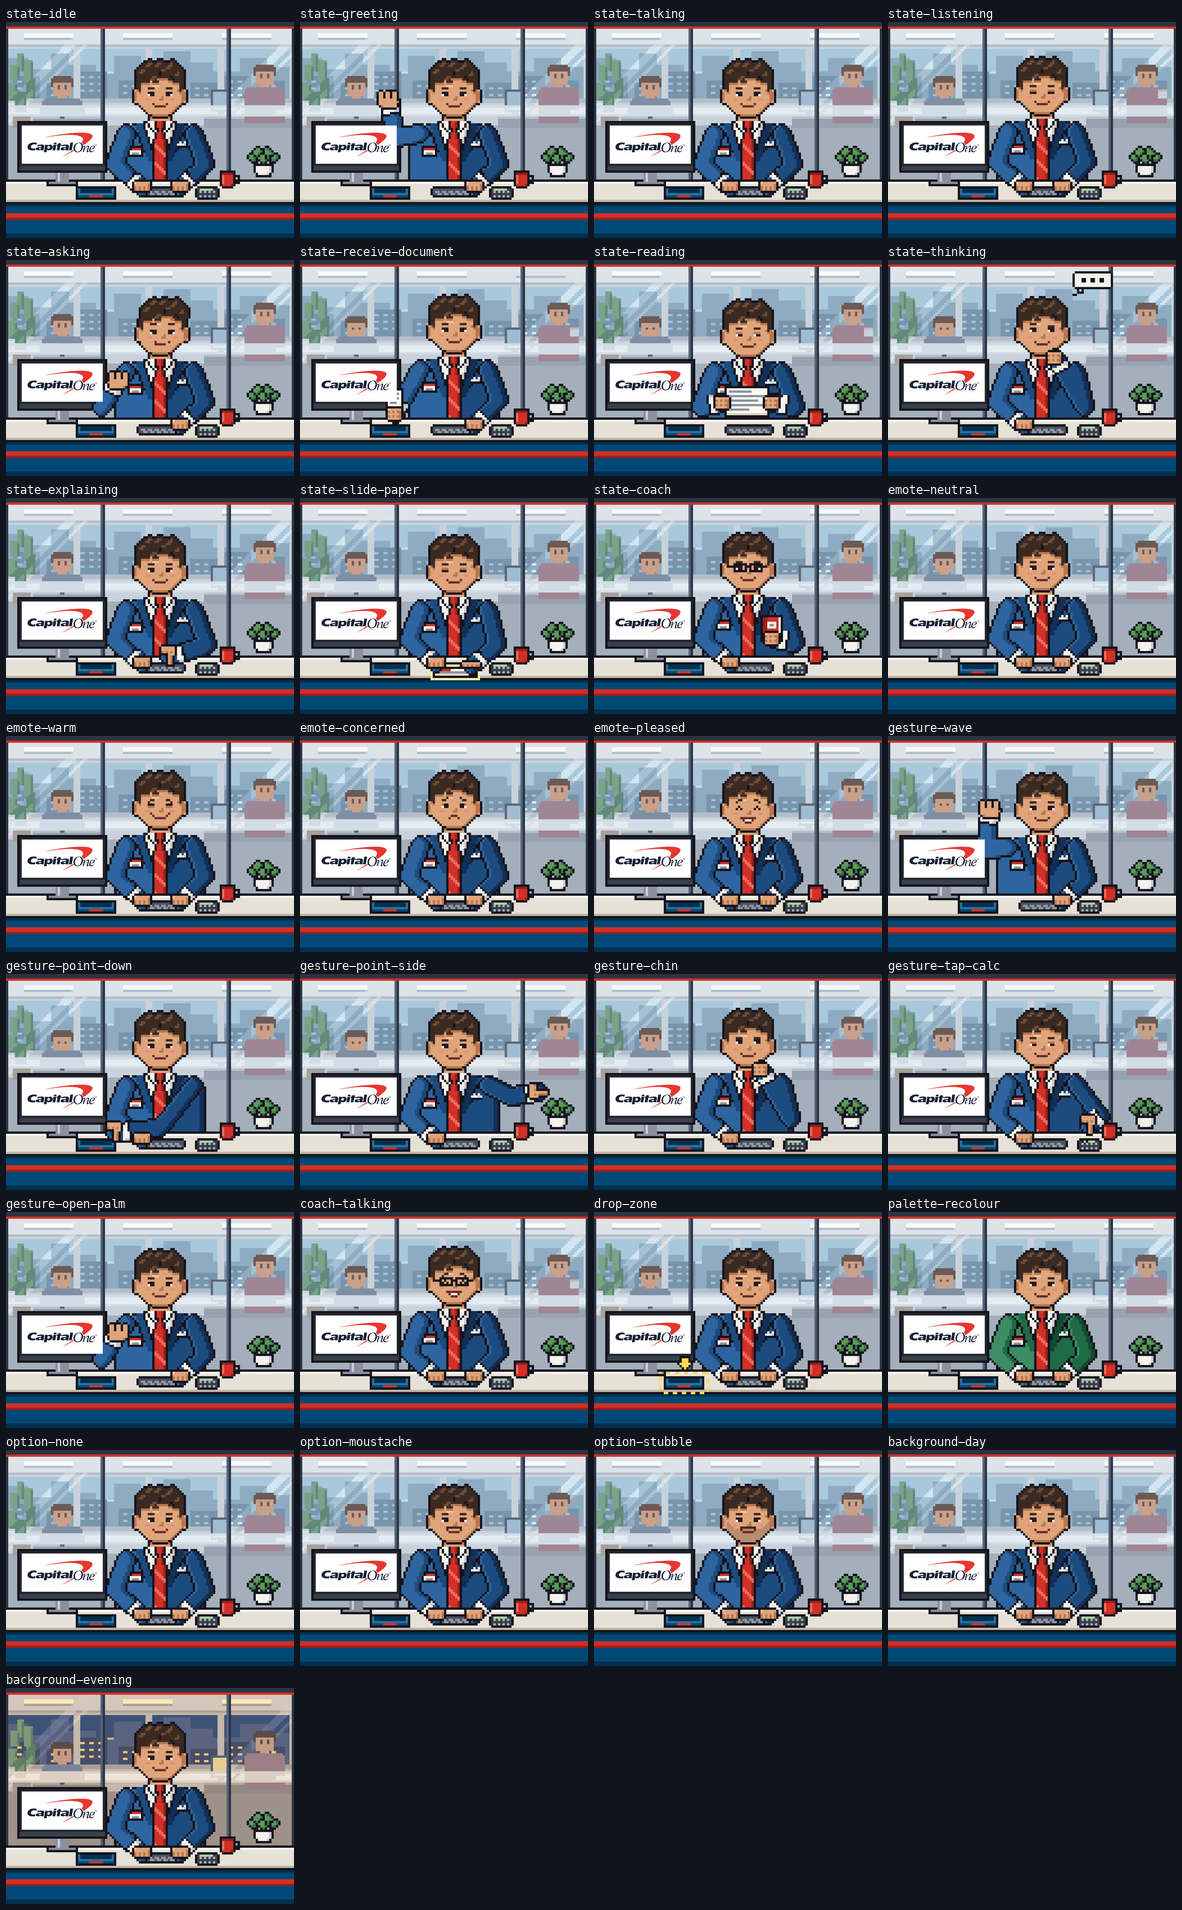
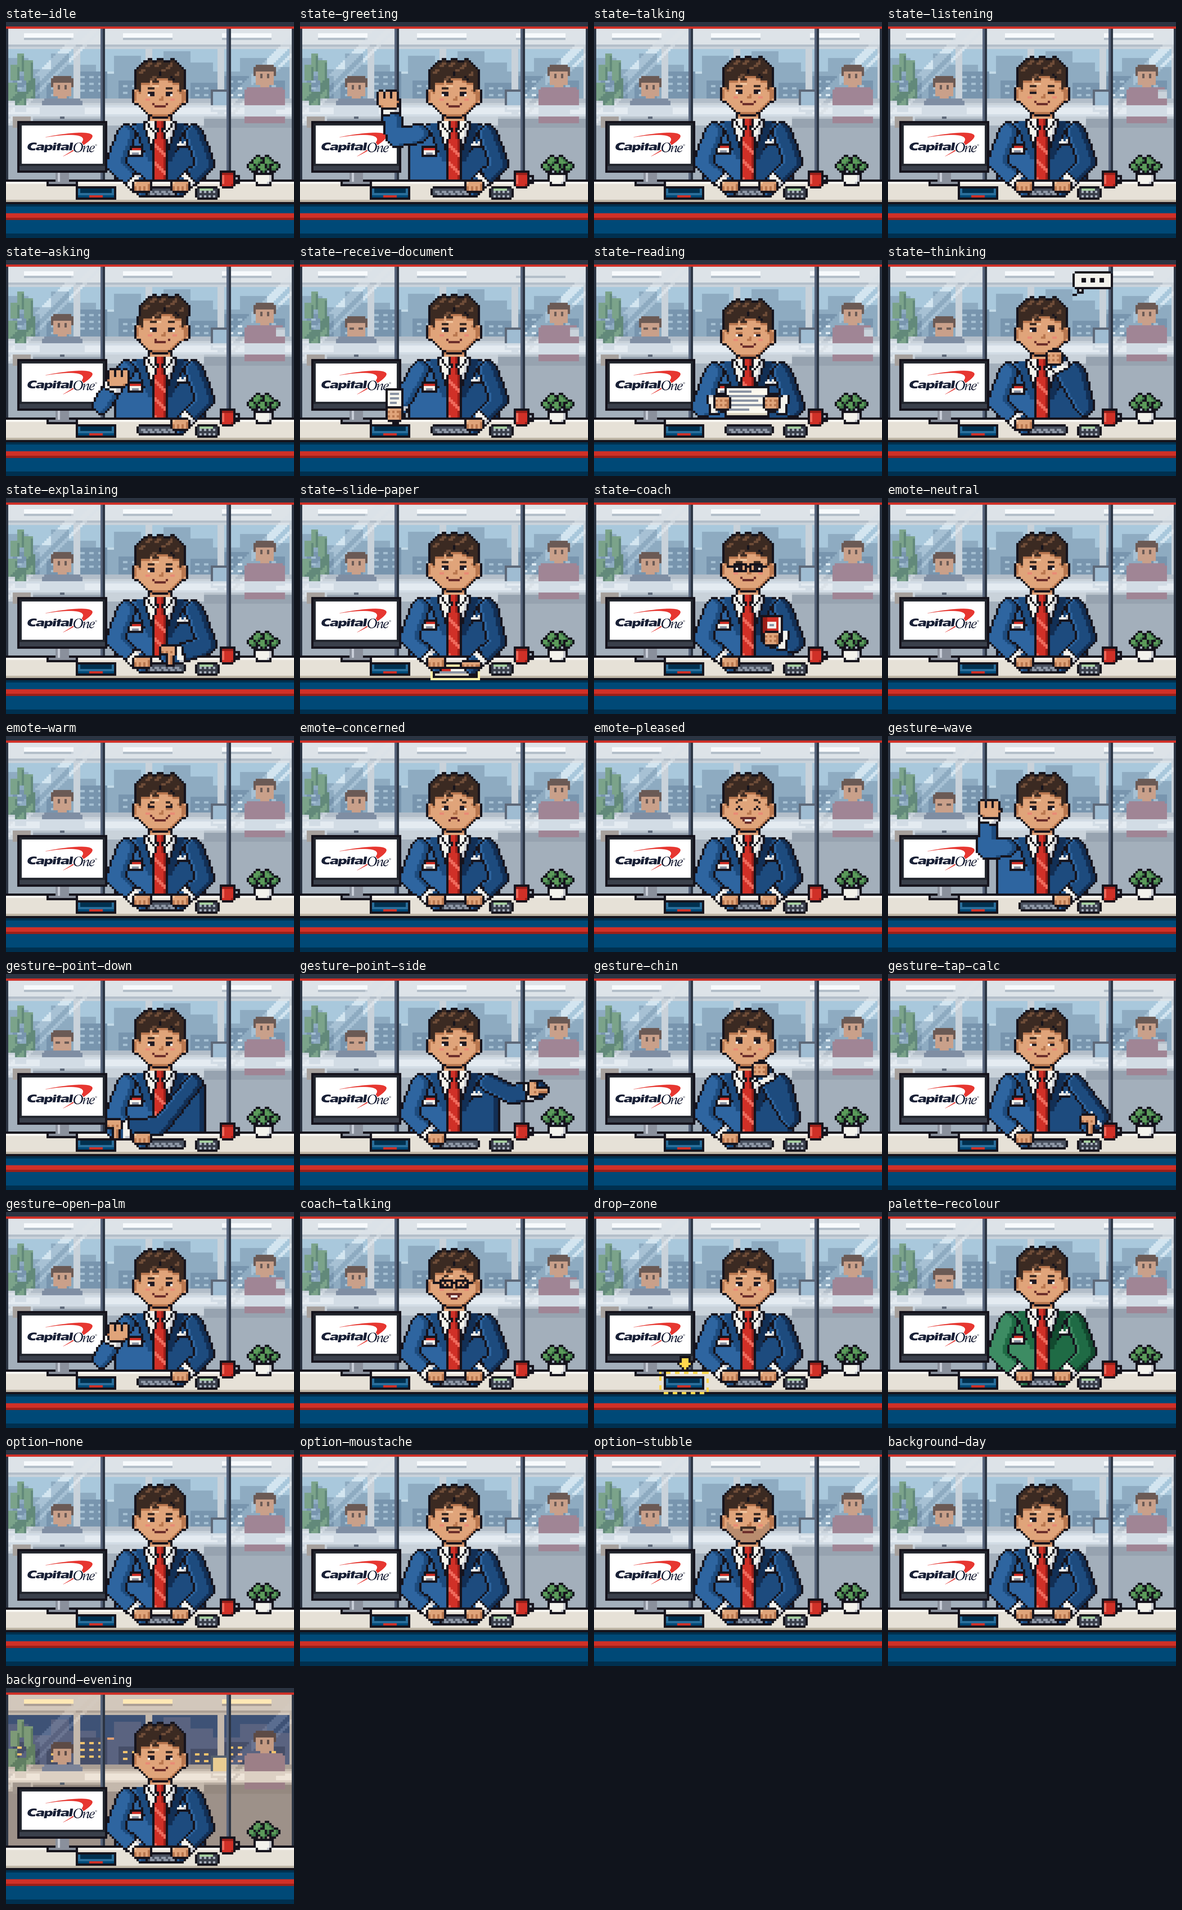
110: final contact sheets, options and backgrounds after review; RESULT and status done

diff --git a/handoffs/110-npc-art-direction-pass.md b/handoffs/110-npc-art-direction-pass.md
@@ -1,7 +1,7 @@
 ---
 id: 110
 title: NPC art direction pass, detailed agent at a desk, glass wall office
-status: in-progress
+status: done
 owner: mihael
 concept: lenders-eyes
 created: 2026-11-07
@@ -58,12 +58,83 @@ Redraw the agent and the scene so they match the user's art direction, then pres
 ---
 
 ## RESULT (filled in by Claude Code)
-- Status:
-- Time taken:
+- Status: done
+- Time taken: about 50 min wall clock (status flip 14:37, done after the review fixes and a full re-run)
 - What was built:
-- Files changed:
-- Verification run and output:
-- Round critiques (one line each):
-- Pixel-art tool used: name / licence / or none
-- API changes (if any):
+  - **Canvas 128 x 96** (was 160 x 120), still 4:3. Same framing as the composition ref, which is itself 128 x 96 at 6x. Bigger pixels fit "do more with less". iPhone 15 is now a crisp 9x (1152 x 864 device px = 384 x 288 CSS px), and desktop 1440 x 900 is 5x (640 x 480).
+  - **Agent redrawn on the 109 rig layers** (`sprites/art.ts` + `sprites/character.ts`):
+    - Head 25 x 27 with three hair tufts, a fringe lock, highlight clusters and ears.
+    - Eyes are 3 x 2 like style ref 1: a dark lid row over a white sclera pixel and a 2 px iris. Glances move the iris.
+    - Soft 1 px brows, a nose shade, blush, and a warm closed smile at rest.
+    - Navy suit with a light side and a dark side, plus lapels with a dark outer edge.
+    - Clean white collar points, and a red tie with a real knot, a narrow neck, a blade and two 2 px stripes. Pocket square and name badge.
+    - Arms are 9 px sleeves shaded like a cylinder (light rim, 2 px dark rim) with a white cuff and a dark hem. Hands are 9 px.
+    - All 11 states, 4 emotes and 6 gestures re-posed for the desk: hands on the keyboard in idle, the reach to the tray, point-down to the tray, tap-calc, slide-paper over the desk, and so on.
+  - **Facial hair layer**: `none` (default), `moustache`, `stubble` (moustache plus a flat darker skin-tone stubble shape, no dither). It is drawn with the head group, so tilts and nods move it.
+  - **Glass wall office** (`scene.ts`):
+    - Behind the glass: a ceiling with three light panels, a back wall with a window band (sky and a two-row city with 2x1 windows), two back desks, colleague A seated behind a monitor facing us, colleague B standing with a mug, and a tall plant.
+    - The glass itself: a top rail with a brand red line, slim dark mullions with a light edge, a translucent frosted band (shapes show through as two soft tones) and two pairs of diagonal reflections (a lighter-colour map, not paint).
+    - Everything behind the glass is cooler, lighter and lower in contrast than the agent.
+    - Ambient life sits behind the `ambient` flag and is off in reduced motion: colleague A looks down, colleague B lifts the mug, one light flickers for 140 ms every ~9 s.
+  - **Background variants**: `day` (default) and `evening` (warm walls and lights, dusk sky, lit city windows). Each is a palette swap of the office colours only (`BACKGROUNDS` in `palette.ts`).
+  - **Desk**:
+    - Light top with a thin highlight, and a short navy front panel with a red stripe.
+    - Slim monitor at the left (bezel, chin, neck, base) with the official logo PNG shown unchanged on its white screen. The artwork is scaled to fit and smoothed; only white margin falls outside. If the file is missing, a plain coded dashboard shows instead, never a drawn logo.
+    - Navy in-tray with a red label (drop zone and tap target), keyboard under his hands, calculator, red mug and a small plant at the right.
+  - **Debug panel** gained "Facial hair" and "Background" switches; the info list shows both.
+  - **ART-GUIDE.md**: the style checklist, agent and scene description, new sizes table, layers, the facial hair and background switches, palette rows for every new colour, and authoring notes. Stale stand/counter wording removed.
+- Files changed (app/npc-concept unless noted):
+  - Source: `src/npc/{palette,raster,scene,engine,NpcScene,describe,hooks,index}.ts(x)`, `src/npc/npc.css`, `src/npc/sprites/character.ts`, new `src/npc/sprites/art.ts`, `src/App.tsx`
+  - Docs: `ART-GUIDE.md`, `app/DISCLOSURES.md`
+  - Screens: `screens/{contact-sheet,contact-sheet-small,contact-sheet-desktop,options,backgrounds,iphone-page,iphone-reply-focused,iphone-reduced-motion,desktop-1440}.png`
+  - Root `.gitignore`
+- Verification run and output (Playwright 1.56.1 scripts outside the repo, dev server on :5173; WebKit `iPhone 15` portrait and Chromium 1440 x 900 dpr 1):
+  Final run, after the reviewer fixes:
+  1. Contact sheets: `node shots.mjs iphone final-iphone` and `node shots.mjs desktop final-desktop`. Each covers 29 frames: 11 states, 4 emotes, 6 gestures, coach-talking, drop-zone, palette-recolour, 3 facial hair options and 2 backgrounds.
+     - iPhone metrics `{"dpr":3,"cssRect":[5,52,384,288],"devicePx":[1152,864],"canvas":[1152,864],"rendering":"pixelated","scrollW":393,"clientW":393,"coarse":true}`, console: vite connect lines only.
+     - Desktop `{"dpr":1,"cssRect":[400,60,640,480],"canvas":[640,480]}`, console: the React DevTools info line only.
+     - `python3 sheet.py final-iphone 6` → `big (3132, 4956)`, `small (1182, 1910) tile (288, 216)` → `screens/contact-sheet.png`, `screens/contact-sheet-small.png` (25%). Desktop → `screens/contact-sheet-desktop.png`.
+     - Pixel test (every scaled native block one flat colour; the monitor screen is reported apart because the logo image may be smoothed): `final-iphone/state-idle.png: 12288 native blocks of 9x9; not flat outside the logo screen: 0; inside the logo screen (smooth logo image, allowed): 192`. Same 0 outside for state-greeting (188 inside), state-receive-document (190), background-evening and option-stubble. Desktop state-idle and gesture-wave: 0 outside, 175 inside (5x5).
+  2. `screens/compare-round1.png`, `compare-round2.png`, `compare-round3.png` exist (our render next to both style refs and the composition ref, critique printed under them). They are **gitignored** (`app/npc-concept/screens/compare-round*.png`) because they contain the reference images, which must never be committed. Critiques below.
+  3. `screens/options.png` (A clean-shaven, B neat moustache, C moustache with light stubble; idle, reduced motion so no blink is caught, final scene) and `screens/backgrounds.png` (day city, warm evening) exist and are committed. Both switch at runtime from the debug panel.
+  4. `node checks.mjs iphone` / `desktop`:
+     - **Sample conversation** `{"result":"done","seconds":35.838,"statesSeen":["greeting","asking","receive-document","reading","thinking","explaining","slide-paper","coach"],"consoleErrorsAndWarnings":[]}` (iPhone); desktop `done` in 37.359 s, same 8 states, no errors or warnings.
+     - **Reduced motion** `{"distinctIdleFramesOver3s":1,"unprintedChars":0}` on both.
+     - **Tray tap** (iPhone) `filePickerOpened: true, accept ".pdf,.csv,image/*", line "Agent says: Thank you. I have credit-report.pdf. Let me read it."`, no errors.
+     - **Keyboard** (desktop) tab order `page-debug-toggle, tray, INPUT(1x), npc-next, npc-chip, npc-reply__input, npc-reply__send`, all `solid 3px rgb(255, 216, 77)`. `D` focuses `npc-debug-title`. The paper hotspot is 130 x 65 (tray hotspot 130 x 110) and Enter gives "This is your summary sheet...". Drag and drop: `highlightedWhileDragging: true`, line "Thank you. I have statement.csv...".
+     - **Touch targets** (iPhone) all at least 44 x 44 (tray hotspot 78 x 66). Reply pinned above the keyboard: `{"pinned":true,"position":"fixed","formBottom":659,"visualViewportBottom":659}`. No horizontal scroll.
+  5. `git check-ignore app/npc-concept/refs/style-ref-1.png` → `app/npc-concept/refs/style-ref-1.png`
+  - Also: `pnpm exec tsc -b` clean, `pnpm lint` exit 0.
+- Round critiques (one line each; the full checklist text is in each compare image):
+  - Round 1 (first redraw at 128 x 96): framing, outline, flat fills, calm face and thick cuffed arms OK. Collar wings and tie stripes were single-pixel noise. Colleague B was a pink block cut by a solid frosted band. Next to the composition ref the head read small.
+  - Round 2 (head 25 x 27, ref-style lid and sclera eyes, solid collar triangles, 2 px tie stripes, lapel edges, translucent frosted band, standing colleague): proportions now match the ref and the noise is gone. The rest smile was too small, and the grey tray under the monitor read as part of the monitor.
+  - Round 3 (warmer 7 px smile, a navy in-tray with a red label beside the monitor, facial hair and evening variants): all 8 checklist points pass at phone size. After the full contact sheet, the open palm (asking, open-palm) was moved off the monitor bezel to in front of the chest.
+- Pixel-art tool used: none.
+  - claude-pxl (crsolver/claude-pxl) is MIT, but it is a second sprite format with a PNG build step, and our rig composes palette-indexed layers at runtime.
+  - pixel-mcp (willibrandon/pixel-mcp) is MIT, but it needs Aseprite, which is not installed.
+  - Instead, a small Python design script (outside the repo, recorded in DISCLOSURES) builds the agent's sprite rows from fills, an automatic outside outline and hand-placed details, and writes `src/npc/sprites/art.ts`. That TS file is the source of truth now.
+- API changes (if any): additive only. 102 can lift `src/npc/` unchanged.
+  - `NpcScene` props `facialHair?` and `background?`.
+  - `NpcHandle.setFacialHair()` and `setBackground()`.
+  - `NpcSnapshot.facialHair` and `.background`.
+  - Exports `FACIAL_HAIR`, `FacialHair`, `BACKGROUNDS`, `BACKGROUND_NAMES` and `Background`.
+  - `NATIVE_W`/`NATIVE_H` values are now 128/96. Code that sizes by them (as `App.tsx` does) needs no change.
+  - `wordmarkSrc` keeps its name; the logo now shows on the desk monitor instead of a top band.
+- Reviewer (fresh-context `reviewer` agent on `git diff main...mihael/110`):
+  - It found that all requirements are met and the scope was respected. It ran `tsc`, `lint` and `vite build`, did a headless render of 105 frames with no throws, and ran the sample conversation in a Chromium iPhone 15 profile: done in 36.7 s, 0 errors.
+  - **Fixed:**
+    1. HIGH: the logo box sat on top of the canvas and cut off the left arm with a white edge in greeting, wave, asking, open-palm and receive-document. The logo now sits under the canvas (z-index 0/1/2), and the engine makes the monitor's white screen pixels transparent while the logo shows, so arms and documents paint over it.
+    2. Stale guide numbers: lean 2 px, wave swing 6 px, the palette labels of the glass/desk colours, the skyLowShine row, the sleeve rim description, the API list, the "drawn in code" note, the logo layering, and the usage snippet now shows `wordmarkSrc` plus copying the PNG.
+    3. Removed two unused new palette entries (`mug`, `shine`).
+    4. The desk plant floated 1 row above the desk; it now sits at y 59.
+    5. Colleague A's lowered eyes were 1x1; they are now 2x1 lids.
+    6. Cuff and hem are skipped where the forearm is too short to keep them off the elbow.
+    7. `KEYBOARD.h` set to 5, and the vite.config.ts comment updated.
+  - **Noted:**
+    - The reviewer could not run WebKit (its Playwright had no matching build), so the WebKit numbers above are from my runs.
+    - The compare images are local only (see Verification 2).
 - Open issues / follow-ups:
+  - The user picks a facial hair option (A, B, C) and a background (day, evening) from `screens/options.png` and `screens/backgrounds.png`. Then set the defaults (the `useState` values in `App.tsx`, or the props in 102).
+  - Not checked on a real iPhone (emulation only), same as 109.
+  - The hands could take one more detail pass (finger lines) if the user wants more; it was left to keep "do more with less".
+  - Follow-ups needed after the first prompt (prompt deltas): none from the user in this session. One deviation: the handoff asks for `compare-roundN.png` in `screens/` and also says the refs are never committed. The compare images embed the refs, so they are made locally and gitignored. Future handoffs should say "local only" for any image that contains the refs.
